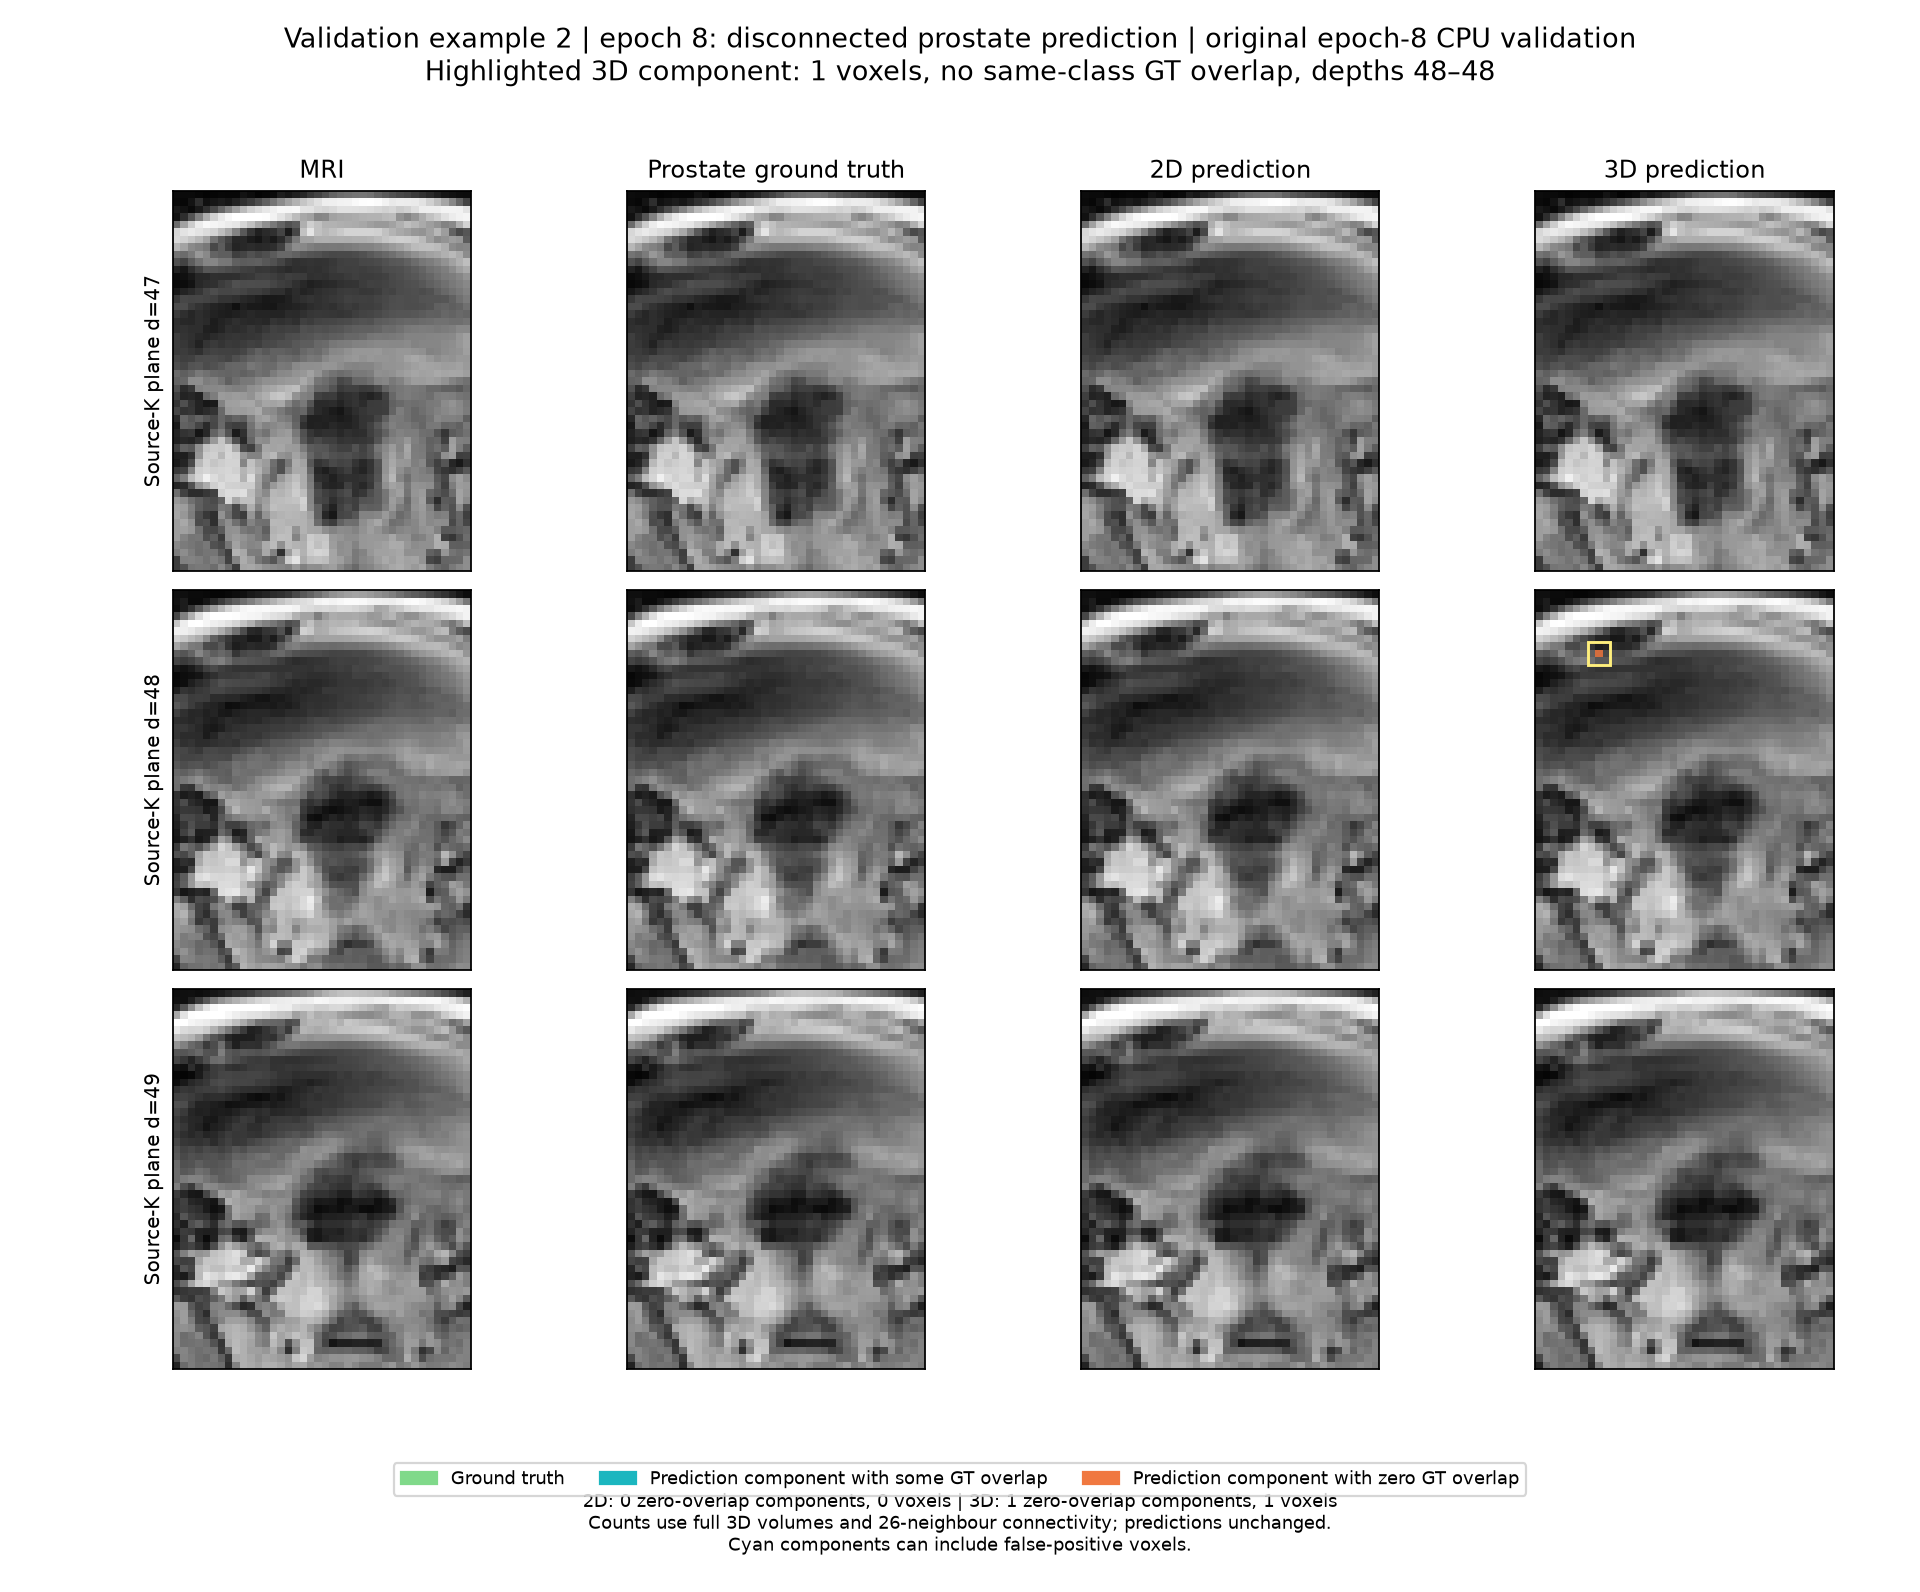
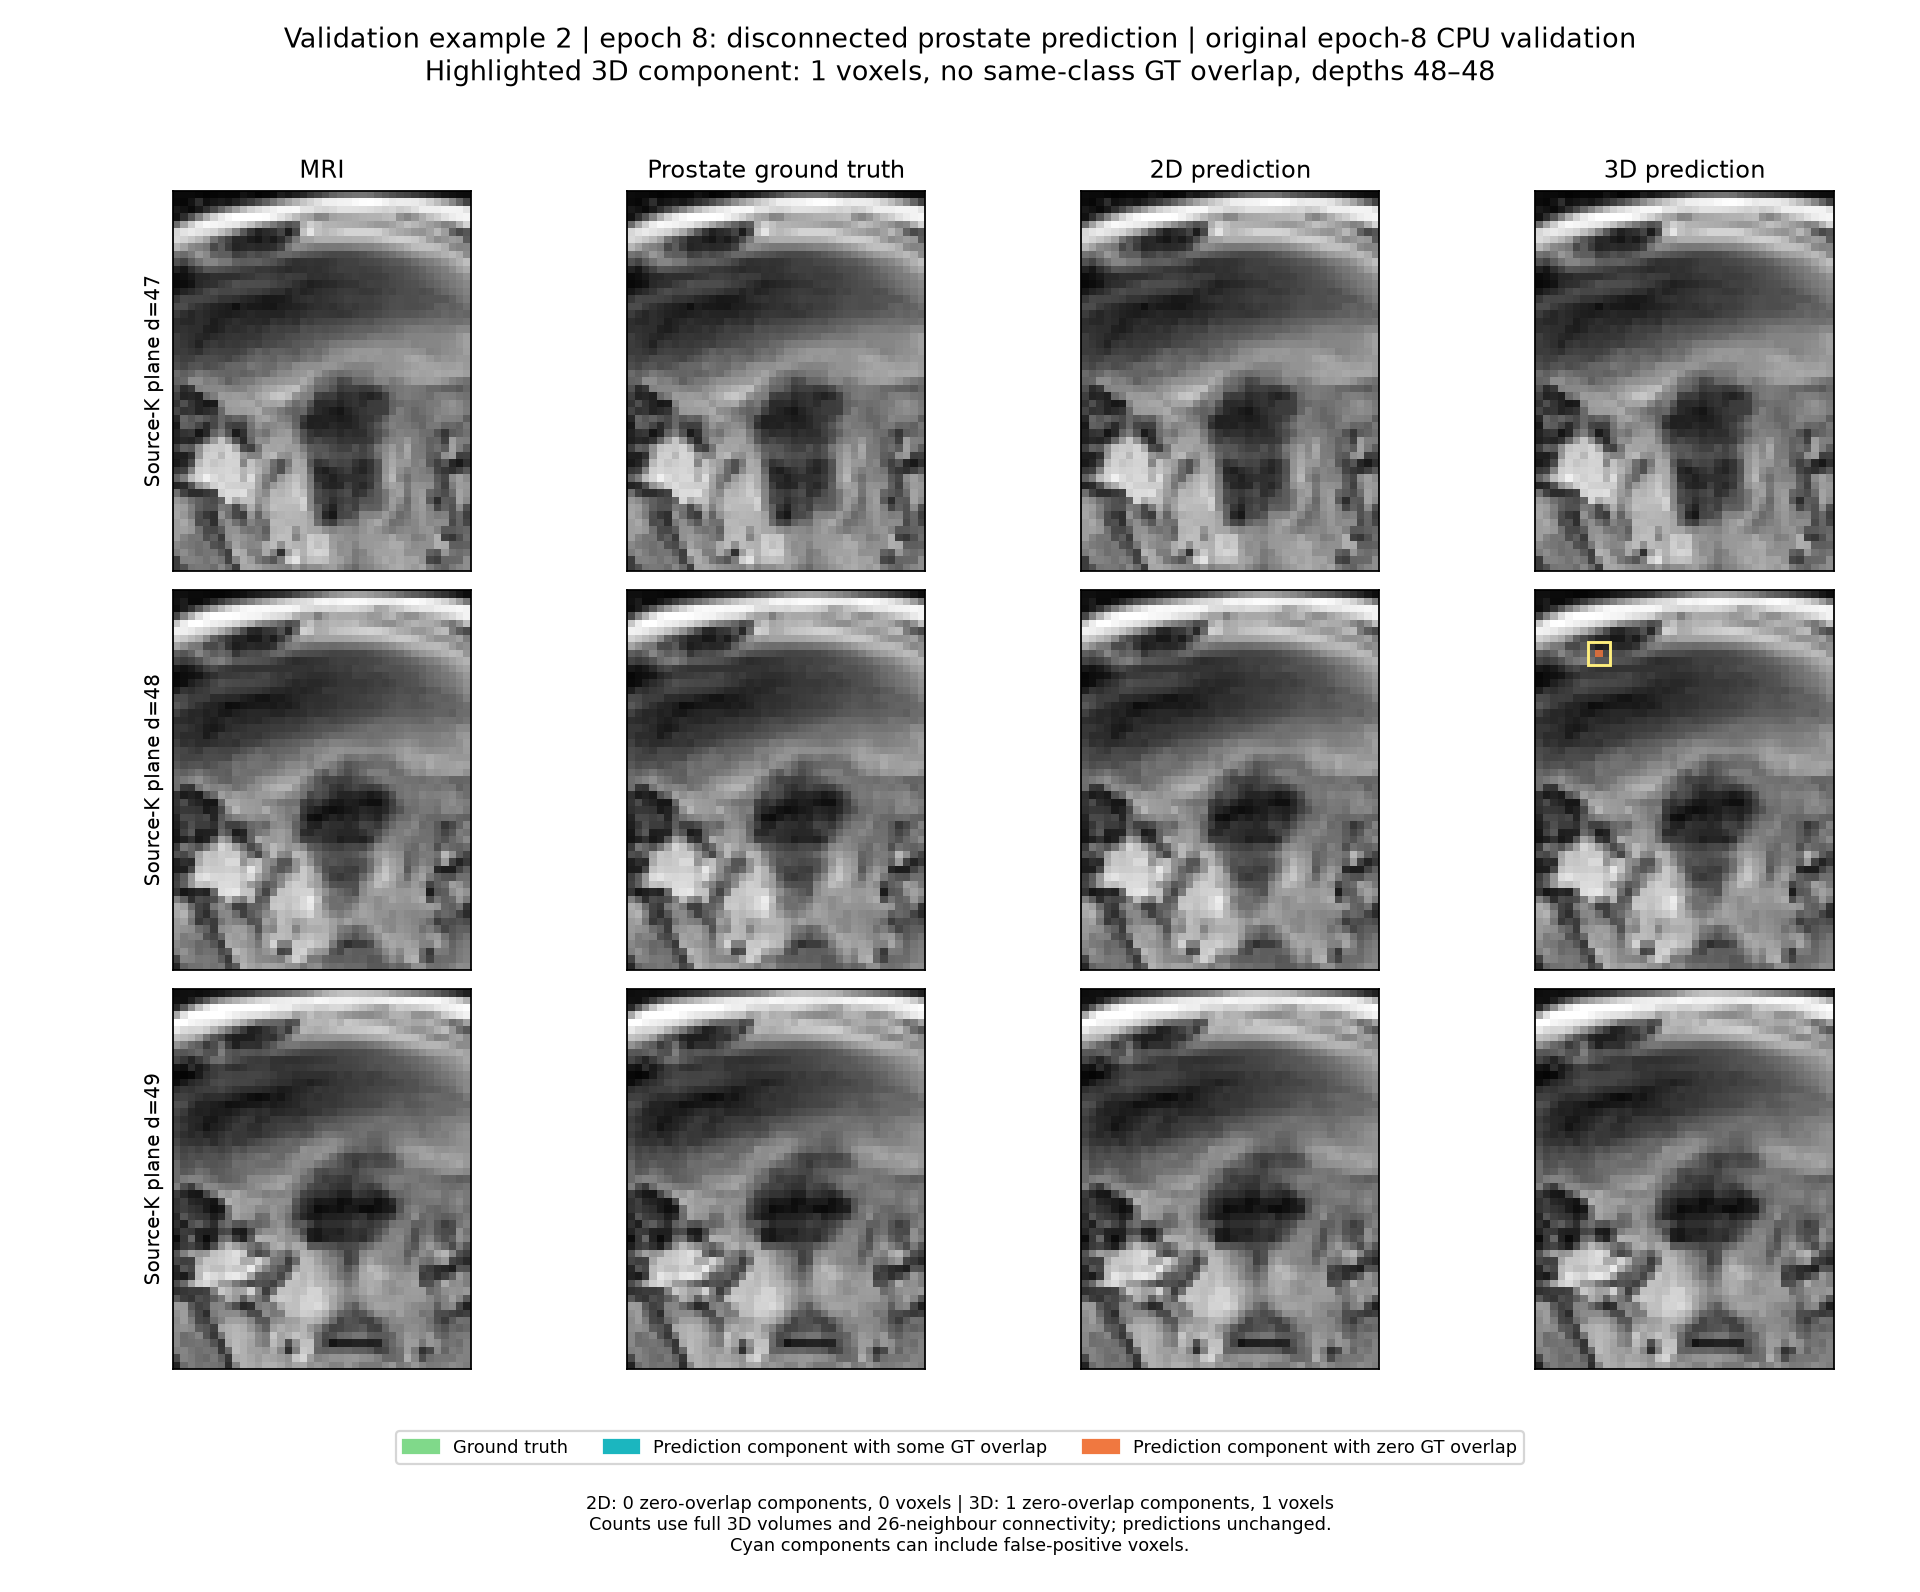
Fix report figure legend spacing

Changed region(s): [[0.1875, 0.8926, 0.7812, 0.9849]]

diff --git a/recognition/Improved_UNet3D_zaosns/component_panels.py b/recognition/Improved_UNet3D_zaosns/component_panels.py
@@ -152,7 +152,7 @@ def render_component_panels(prepared, prediction_2d, prediction_3d, components_2
     fig.legend(handles=[Patch(color='#80d98a', label='Ground truth'),
                         Patch(color='#1bb6bf', label='Prediction component with some GT overlap'),
                         Patch(color='#f07840', label='Prediction component with zero GT overlap')],
-               loc='lower center', bbox_to_anchor=(.5, .055), ncol=3, fontsize=8)
+               loc='lower center', bbox_to_anchor=(.5, .075), ncol=3, fontsize=8)
     count_text = ' | '.join(f'{m.upper()}: {v["zero_overlap_prediction_component_count"]} zero-overlap components, '
                             f'{v["zero_overlap_prediction_voxels"]} voxels' for m, v in volume_counts.items())
     fig.text(.5, .026, count_text + '\nCounts use full 3D volumes and 26-neighbour connectivity; predictions unchanged.'
